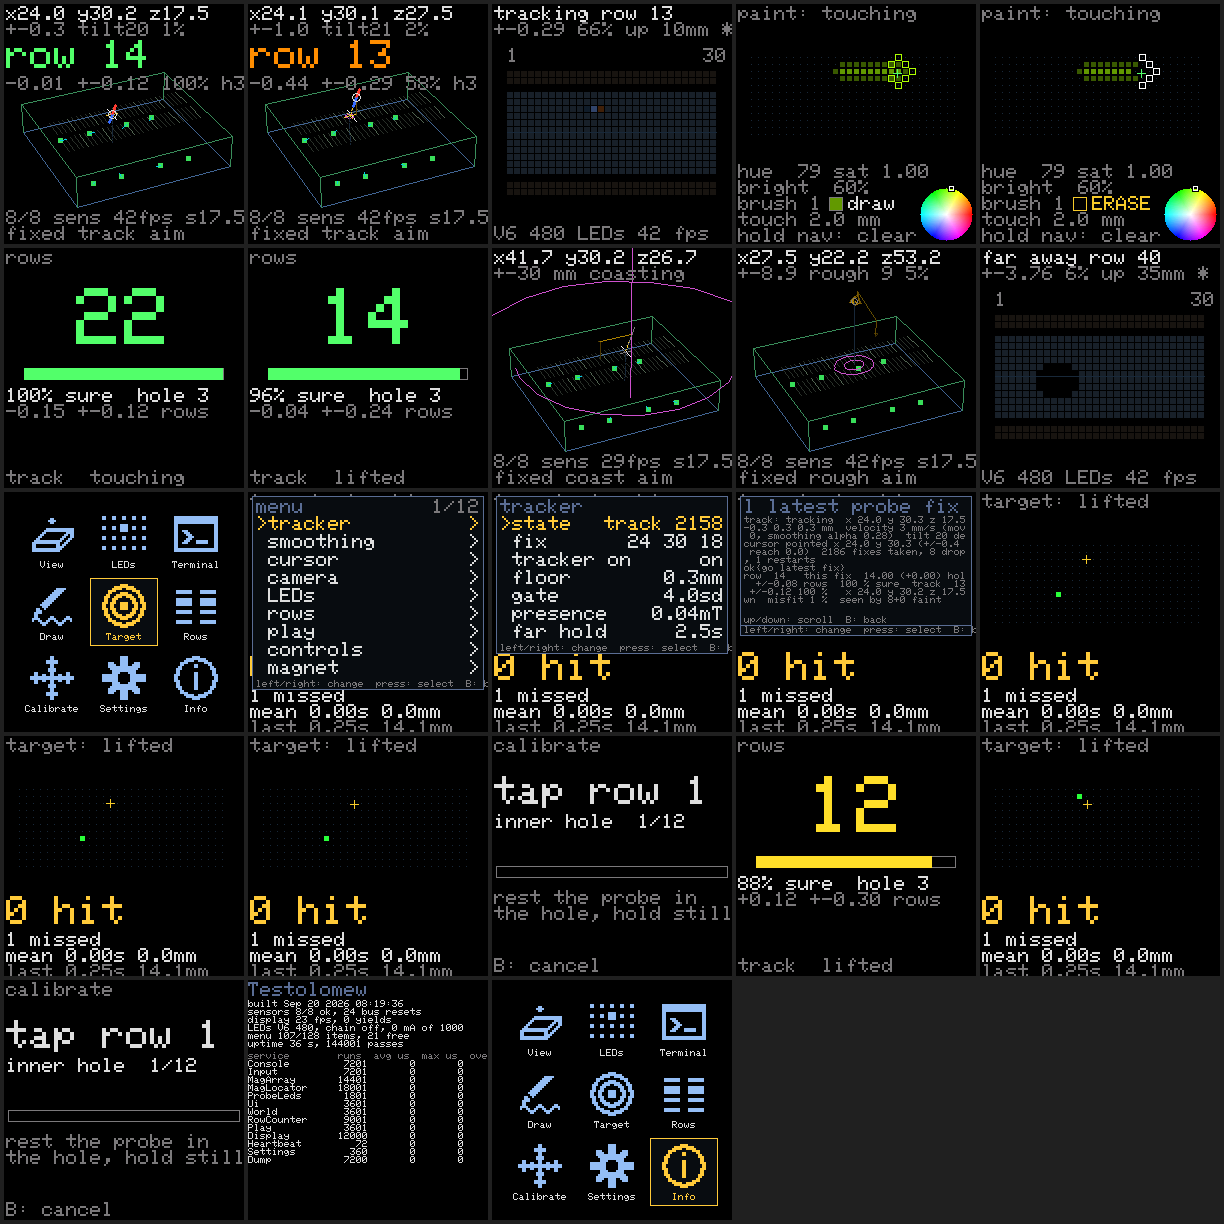
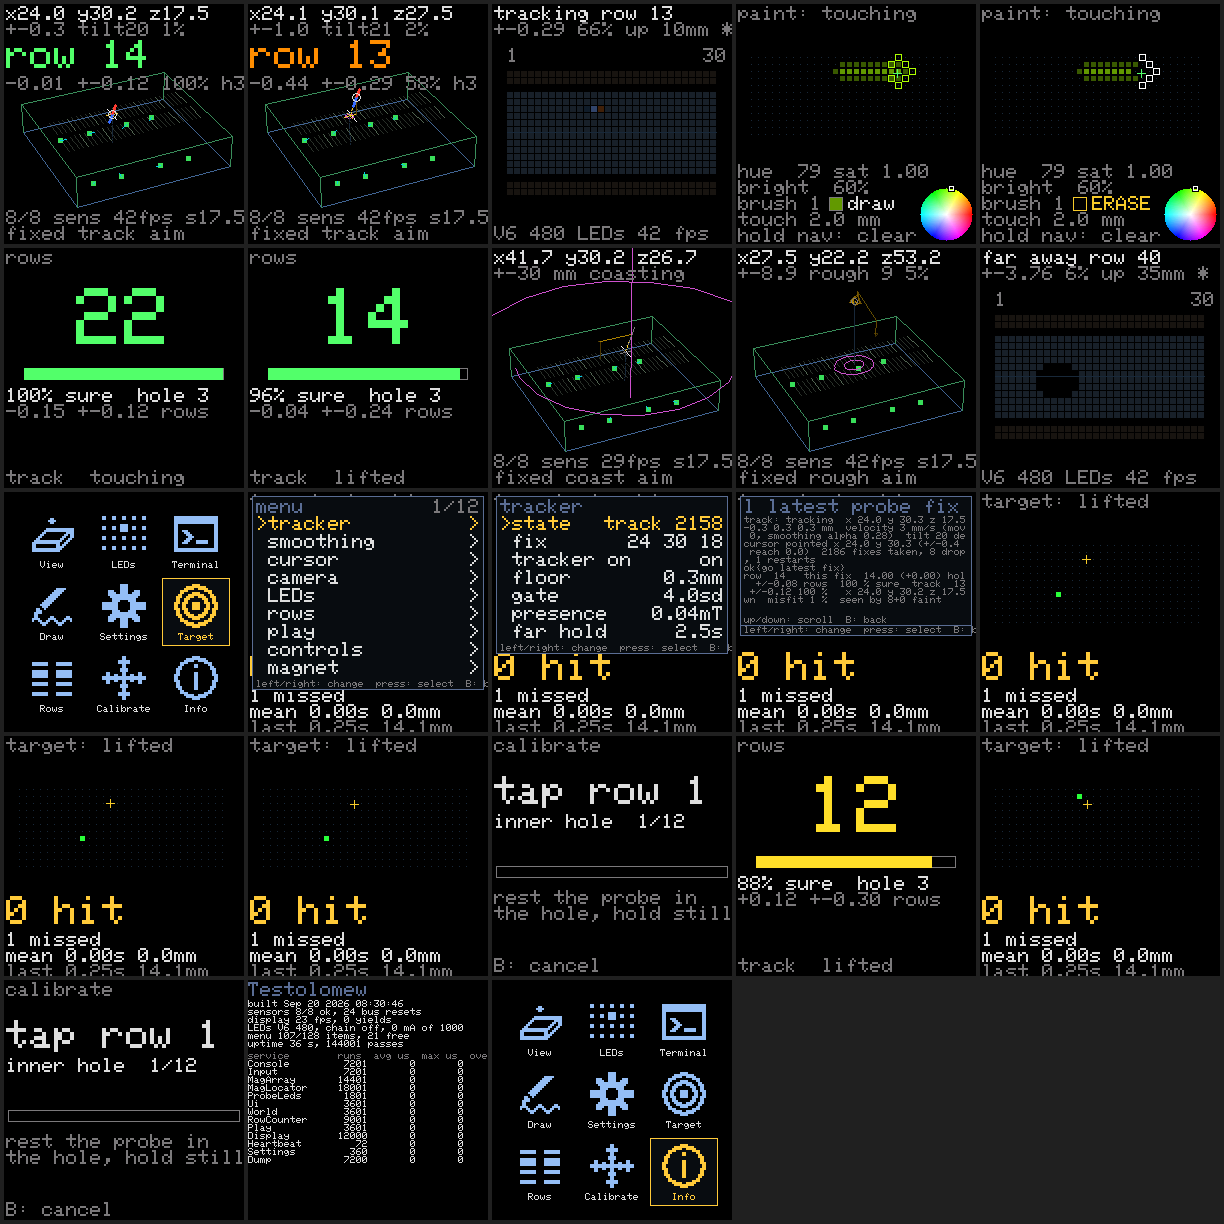
Home: Settings in the centre cell; the controls' polarities confirmed by hand
Kevin's j capture with a hand on every control (docs/bench/2026-09-20-
controls-j.txt): the joystick's push reads pressed, both axes reach full
travel, every nav direction and the press decode, A and B read. Settings
moves to Home's centre (View, LEDs, Terminal, Draw, Settings, Target,
Rows, Calibrate, Info), which is also where a centred stick lands in the
absolute mode.

Claude-Session: https://claude.ai/code/session_01DZd13FCy23xVtEhQRwfdgW

Changed region(s): [[0.4036, 0.8693, 0.5899, 0.9935], [0.0621, 0.4657, 0.1863, 0.5899], [0.031, 0.5278, 0.0621, 0.5899]]

diff --git a/src/ui/Input.h b/src/ui/Input.h
@@ -49,9 +49,9 @@
 #define INPUT_PERIOD_US 5000
 #define INPUT_DEBOUNCE_MS BUTTON_DEBOUNCE_MS
 #define INPUT_HOLD_MS BUTTON_HOLD_MS
-#define INPUT_JOY_DEAD 0.05f        // fraction of travel ignored round the centre
-#define INPUT_JOY_MENU_AT 0.25f     // as a four-way: this much of the raw travel is a direction (the menu's; the setting "joy menu at")
-#define INPUT_JOY_MENU_OFF 0.6f     // ...released back inside this fraction of it (hysteresis)
+#define INPUT_JOY_DEAD 0.04f        // fraction of travel ignored round the centre
+#define INPUT_JOY_MENU_AT 0.12f     // as a four-way: this much of the raw travel is a direction (the menu's; the setting "joy menu at")
+#define INPUT_JOY_MENU_OFF 0.08f     // ...released back inside this fraction of it (hysteresis)
 #define INPUT_EMULATED_NUDGE_MS 150 // a typed joystick key holds the stick this long
 #define INPUT_TAP_MS 40             // a typed key or :key tap holds the control this long (and the next waits as long)
 #define INPUT_NAV_SETTLE_MS 10      // the nav contacts' pattern has to hold still this long (contact bounce)
@@ -63,8 +63,8 @@
 // (a centre push wobbles the stick into a direction contact first; on this
 // unit the push contact closes on every tilt, so this is the one that
 // counts); the push alone must hold INPUT_NAV_DIRECTION_MS to be the press.
-#define INPUT_NAV_DIRECTION_MS 20
-#define INPUT_NAV_DIRECTION_WITH_PUSH_MS 50
+#define INPUT_NAV_DIRECTION_MS 10
+#define INPUT_NAV_DIRECTION_WITH_PUSH_MS 20
 #define INPUT_NAV_TRACE 32          // nav pattern changes remembered for `J`
 #define INPUT_EVENTS 32             // the event ring; a full one drops its oldest (counted: `j`)
 

diff --git a/src/apps/Apps.h b/src/apps/Apps.h
@@ -27,7 +27,7 @@ enum UiAppId {
     APP_INFO,
     APP_COUNT
 };
-#define APPS_SETTINGS_CELL 7 // Home: View, LEDs, Terminal, Draw, Target, Rows, Calibrate, Settings, Info
+#define APPS_SETTINGS_CELL 4 // Home: View, LEDs, Terminal, Draw, Settings (the centre), Target, Rows, Calibrate, Info
 
 extern UiApp apps[ APP_COUNT ];
 

diff --git a/README.md b/README.md
@@ -70,7 +70,7 @@ The board boots with its last zero: the array is zeroed once (`z`, with the prob
 
 V6 will have an ALPS RKJXM1015004 navigation stick (8-way with a centre push: four direction contacts A-D to `COM`, a diagonal closes two neighbours, and the push is a contact of its own on the footprint's `Push` pads - `docs/rkjxm1015004-catalog.png` has the drawing; `PIN_NAV_PRESS` reads it, and `src/ui/Input.h` explains how a push's wobble of the stick is kept from being a direction: with the push contact closed a direction has to hold 130 ms, longer than the wobble), an analog joystick with a press, and two buttons (pins in `BoardPins.h`). Each control is classified by `src/ui/ButtonTracker.h` the way JumperlOS's encoder button is: a **click** is the release of a press shorter than 500 ms, a **hold** fires at 500 ms and is never also a click, the direction keys **repeat** while held. The same controls can be typed on the console: **arrow keys** = the nav switch, **Enter** = its press (while something is open over the app), **Tab** = button A, **`** (backtick) = button B, **, .** = joystick left/right, **; '** = joystick up/down, **/** = the joystick's press - and the verbs `:key <control> [tap|down|up|hold]`, `:joy <x> <y>` and `:ui ...` drive them from a script.
 
-The screen is an **app**, one of nine from the **Home** grid: **View** (the 3D scene), **LEDs**, **Terminal** (the log, 40 x 28), **Draw** (the paint app), **Target** (the target game), **Rows** (the counted row, large), **Calibrate** (the twelve taps), **Settings** and **Info**. The controls mean the same everywhere (`src/ui/UiShell.h` is the one owner of them): in an app, the nav stick, the joystick and their presses are the app's own; **A** clicked opens Home, held opens Settings; **B** clicked goes to the previous app (Home if there is none), held goes Home. On Home the stick moves and a press selects (on its way down, in every pane; the analog stick is a menu direction at a quarter of its travel; a tilt of the nav stick counts within a few tens of milliseconds - the **controls** page of Settings has the two guards and the deflection, and a `joystick: absolute` mode in which the stick's position is the cursor - point it at a Home cell or a menu row and press). Every Home icon carries its name. On a Settings page up/down move, **left/right change the value in place** (a toggle flips, a choice cycles, a number steps, faster after eight repeats), a press enters a page or runs an action, B backs a page and closes at the root, B held closes everything and opens Home; an action's output appears in a Result panel over the page (B dismisses it), the destructive ones ask first, and there is no edit mode to leave or cancel - the settings module writes a change two seconds after it stops. Twenty seconds without a touch closes whatever is open. A and B never reach an app, and a control still held when a pane closes is swallowed until it is released, so a held nav-left that backs out of the menu does not go on panning the camera. The probe, the LEDs and the paint carry on underneath whatever is open.
+The screen is an **app**, one of nine from the **Home** grid: **View** (the 3D scene), **LEDs**, **Terminal** (the log, 40 x 28), **Draw** (the paint app), **Settings** in the centre, **Target** (the target game), **Rows** (the counted row, large), **Calibrate** (the twelve taps) and **Info**. The controls mean the same everywhere (`src/ui/UiShell.h` is the one owner of them): in an app, the nav stick, the joystick and their presses are the app's own; **A** clicked opens Home, held opens Settings; **B** clicked goes to the previous app (Home if there is none), held goes Home. On Home the stick moves and a press selects (on its way down, in every pane; the analog stick is a menu direction at a quarter of its travel; a tilt of the nav stick counts within a few tens of milliseconds - the **controls** page of Settings has the two guards and the deflection, and a `joystick: absolute` mode in which the stick's position is the cursor - point it at a Home cell or a menu row and press). Every Home icon carries its name. On a Settings page up/down move, **left/right change the value in place** (a toggle flips, a choice cycles, a number steps, faster after eight repeats), a press enters a page or runs an action, B backs a page and closes at the root, B held closes everything and opens Home; an action's output appears in a Result panel over the page (B dismisses it), the destructive ones ask first, and there is no edit mode to leave or cancel - the settings module writes a change two seconds after it stops. Twenty seconds without a touch closes whatever is open. A and B never reach an app, and a control still held when a pane closes is swallowed until it is released, so a held nav-left that backs out of the menu does not go on panning the camera. The probe, the LEDs and the paint carry on underneath whatever is open.
 
 In **View** the nav stick pans, its press clicked steps the camera mode and held resets the view, the joystick orbits and zooms with its press held. In **Draw** the joystick moves the colour wheel's marker, its press clicked toggles draw/erase, nav up/down set the brush's brightness, left/right its width, the nav press held clears. In **Terminal** up/down scroll and the press jumps to the newest line. **Rows**' press turns row mode on, **Target**'s picks another target, **Calibrate**'s starts over. The Settings pages: **tracker**, **smoothing**, **cursor**, **camera**, **LEDs**, **rows**, **play**, **magnet**, **sensors**, **commands** (every console command as an action; one that asks for a number has it stepped in place first) and **reset settings**; `docs/knobs.md` section 2 lists every item. Everything the console prints goes to the serial port and into the log the Terminal and the Result panel show (`src/ui/UiStream.h`); every number, toggle and choice on the pages is saved to flash and back after a reboot, except the modes (row mode, the chain on/off, the V5 stream, the play mode).
 

diff --git a/docs/knobs.md b/docs/knobs.md
@@ -12,7 +12,7 @@ Written 2026-09-19 (midday) as the hand-over for a new chat, after the night of 
 
 ## 2. Home, the apps and the Settings menu
 
-The screen is one of nine things from the **Home** grid (button A): **View** (the 3D scene), **LEDs** (the breadboard's LEDs as the cursor lights them), **Terminal** (the console's log, 40 x 28), **Draw** (the paint app: going to it starts painting, leaving stops), **Target** (the target game, likewise), **Rows** (the counted row, large, with how sure), **Calibrate** (the twelve taps; leaving cancels), **Settings** (the pages below, over the app), **Info** (the build, the sensors, the frame rate, the service table). The probe, the LEDs and the paint go on underneath whatever is open.
+The screen is one of nine things from the **Home** grid (button A): **View** (the 3D scene), **LEDs** (the breadboard's LEDs as the cursor lights them), **Terminal** (the console's log, 40 x 28), **Draw** (the paint app: going to it starts painting, leaving stops), **Settings** (the centre cell: the pages below, over the app), **Target** (the target game, likewise), **Rows** (the counted row, large, with how sure), **Calibrate** (the twelve taps; leaving cancels), **Info** (the build, the sensors, the frame rate, the service table). The probe, the LEDs and the paint go on underneath whatever is open.
 
 The controls mean the same everywhere (the shell, `src/ui/UiShell.cpp`, is the one owner of them):
 
